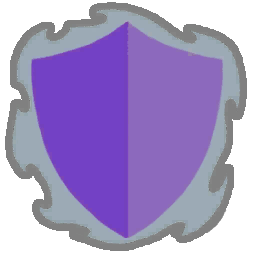
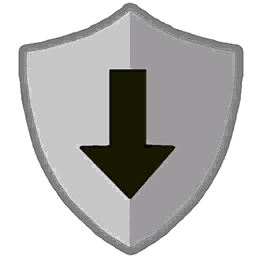
260910: Debug

diff --git a/ElfredaSpire/scripts/Characters/Elfreda/Cards/FlowerSeaArrival.cs b/ElfredaSpire/scripts/Characters/Elfreda/Cards/FlowerSeaArrival.cs
@@ -1,4 +1,4 @@
-// | 花海降临 | FlowerSeaArrival | 技能 | 1 | 对所有敌人施加5/8层[花]。抽2/3张牌。 |
+// | 花海降临 | FlowerSeaArrival | 技能 | 0 | 对所有敌人施加5/8层[花]。抽2/3张牌。 |
 
 using MegaCrit.Sts2.Core.Entities.Cards;
 using MegaCrit.Sts2.Core.GameActions.Multiplayer;
@@ -14,7 +14,7 @@ namespace ElfredaSpire.Characters.Elfreda.Cards;
 [RegisterCard(typeof(ElfredaCardPool))]
 public class FlowerSeaArrival : ModCardTemplate
 {
-    public FlowerSeaArrival() : base(1, CardType.Skill, CardRarity.Ancient, TargetType.AllEnemies, true)
+    public FlowerSeaArrival() : base(0, CardType.Skill, CardRarity.Ancient, TargetType.AllEnemies, true)
     {
     }
 
@@ -33,8 +33,8 @@ public class FlowerSeaArrival : ModCardTemplate
 
     protected override async Task OnPlay(PlayerChoiceContext choiceContext, CardPlay cardPlay)
     {
-        if (cardPlay.Target is null) return;
-        await PowerCmd.Apply<FlowerElfredaPower>(choiceContext, cardPlay.Target, DynamicVars["FlowerElfredaPower"].IntValue, Owner.Creature, cardPlay.Card);
+        if (CombatState is null) return;
+        await PowerCmd.Apply<FlowerElfredaPower>(choiceContext, CombatState.HittableEnemies.ToList(), DynamicVars["FlowerElfredaPower"].IntValue, Owner.Creature, cardPlay.Card);
         await CardPileCmd.Draw(choiceContext, DynamicVars.Cards.IntValue, Owner);
     }
 

diff --git a/ElfredaSpire/scripts/Characters/Elfreda/Cards/StarlightRadiance.cs b/ElfredaSpire/scripts/Characters/Elfreda/Cards/StarlightRadiance.cs
@@ -43,11 +43,12 @@ public class StarlightRadiance : ModCardTemplate
 
     protected override async Task OnPlay(PlayerChoiceContext choiceContext, CardPlay cardPlay)
     {
-        if (cardPlay.Target is null) return;
+        if (CombatState is null) return;
         if (!Owner.Creature.HasPower<GlitterPower>())
             await PowerCmd.Apply<StarElfredaPower>(choiceContext, Owner.Creature, -DynamicVars["StarElfredaPower"].IntValue, Owner.Creature, cardPlay.Card);
-        await PowerCmd.Apply<VulnerablePower>(choiceContext, cardPlay.Target, DynamicVars["VulnerablePower"].IntValue, Owner.Creature, cardPlay.Card);
-        await PowerCmd.Apply<WeakPower>(choiceContext, cardPlay.Target, DynamicVars["WeakPower"].IntValue, Owner.Creature, cardPlay.Card);
+        var targets = CombatState.HittableEnemies.ToList();
+        await PowerCmd.Apply<VulnerablePower>(choiceContext, targets, DynamicVars["VulnerablePower"].IntValue, Owner.Creature, cardPlay.Card);
+        await PowerCmd.Apply<WeakPower>(choiceContext, targets, DynamicVars["WeakPower"].IntValue, Owner.Creature, cardPlay.Card);
     }
 
     protected override void OnUpgrade()

diff --git a/ElfredaSpire/scripts/Characters/Elfreda/Cards/FlowerSeaGuide.cs b/ElfredaSpire/scripts/Characters/Elfreda/Cards/FlowerSeaGuide.cs
@@ -33,9 +33,9 @@ public class FlowerSeaGuide : ModCardTemplate
 
     protected override async Task OnPlay(PlayerChoiceContext choiceContext, CardPlay cardPlay)
     {
-        if (cardPlay.Target is null) return;
+        if (CombatState is null) return;
         await CardPileCmd.Draw(choiceContext, DynamicVars.Cards.IntValue, Owner);
-        await PowerCmd.Apply<FlowerElfredaPower>(choiceContext, cardPlay.Target, DynamicVars["FlowerElfredaPower"].IntValue, Owner.Creature, cardPlay.Card);
+        await PowerCmd.Apply<FlowerElfredaPower>(choiceContext, CombatState.HittableEnemies.ToList(), DynamicVars["FlowerElfredaPower"].IntValue, Owner.Creature, cardPlay.Card);
     }
 
     protected override void OnUpgrade()

diff --git a/ElfredaSpire/scripts/Characters/Elfreda/Cards/StarRain.cs b/ElfredaSpire/scripts/Characters/Elfreda/Cards/StarRain.cs
@@ -34,8 +34,8 @@ public class StarRain : ModCardTemplate
 
     protected override async Task OnPlay(PlayerChoiceContext choiceContext, CardPlay cardPlay)
     {
-        if (cardPlay.Target is null) return;
-        await DamageCmd.Attack(DynamicVars.Damage.BaseValue).FromCard(this).Targeting(cardPlay.Target).Execute(choiceContext);
+        if (CombatState is null) return;
+        await DamageCmd.Attack(DynamicVars.Damage.BaseValue).FromCard(this).TargetingAllOpponents(CombatState).Execute(choiceContext);
         await PowerCmd.Apply<StarElfredaPower>(choiceContext, Owner.Creature, DynamicVars["StarElfredaPower"].IntValue, Owner.Creature, cardPlay.Card);
     }
 

diff --git a/ElfredaSpire/scripts/Characters/Elfreda/Cards/FlowerStorm.cs b/ElfredaSpire/scripts/Characters/Elfreda/Cards/FlowerStorm.cs
@@ -33,8 +33,8 @@ public class FlowerStorm : ModCardTemplate
 
     protected override async Task OnPlay(PlayerChoiceContext choiceContext, CardPlay cardPlay)
     {
-        if (cardPlay.Target is null) return;
-        await PowerCmd.Apply<FlowerElfredaPower>(choiceContext, cardPlay.Target, DynamicVars["FlowerElfredaPower"].IntValue, Owner.Creature, cardPlay.Card);
+        if (CombatState is null) return;
+        await PowerCmd.Apply<FlowerElfredaPower>(choiceContext, CombatState.HittableEnemies.ToList(), DynamicVars["FlowerElfredaPower"].IntValue, Owner.Creature, cardPlay.Card);
     }
 
     protected override void OnUpgrade()

diff --git a/ElfredaSpire/scripts/Characters/Elfreda/Cards/FlowerRain.cs b/ElfredaSpire/scripts/Characters/Elfreda/Cards/FlowerRain.cs
@@ -33,8 +33,8 @@ public class FlowerRain : ModCardTemplate
 
     protected override async Task OnPlay(PlayerChoiceContext choiceContext, CardPlay cardPlay)
     {
-        if (cardPlay.Target is null) return;
-        await PowerCmd.Apply<FlowerElfredaPower>(choiceContext, cardPlay.Target, DynamicVars["FlowerElfredaPower"].IntValue, Owner.Creature, cardPlay.Card);
+        if (CombatState is null) return;
+        await PowerCmd.Apply<FlowerElfredaPower>(choiceContext, CombatState.HittableEnemies.ToList(), DynamicVars["FlowerElfredaPower"].IntValue, Owner.Creature, cardPlay.Card);
     }
 
     protected override void OnUpgrade()

diff --git a/ElfredaSpire/scripts/Characters/Elfreda/Cards/WedgeScatter.cs b/ElfredaSpire/scripts/Characters/Elfreda/Cards/WedgeScatter.cs
@@ -33,8 +33,8 @@ public class WedgeScatter : ModCardTemplate
 
     protected override async Task OnPlay(PlayerChoiceContext choiceContext, CardPlay cardPlay)
     {
-        if (cardPlay.Target is null) return;
-        await PowerCmd.Apply<FlowerWedgePower>(choiceContext, cardPlay.Target, DynamicVars["FlowerWedgePower"].IntValue, Owner.Creature, cardPlay.Card);
+        if (CombatState is null) return;
+        await PowerCmd.Apply<FlowerWedgePower>(choiceContext, CombatState.HittableEnemies.ToList(), DynamicVars["FlowerWedgePower"].IntValue, Owner.Creature, cardPlay.Card);
     }
 
     protected override void OnUpgrade()

diff --git a/ElfredaSpire/scripts/Characters/Elfreda/Cards/EntanglingVines.cs b/ElfredaSpire/scripts/Characters/Elfreda/Cards/EntanglingVines.cs
@@ -36,7 +36,7 @@ public class EntanglingVines : ModCardTemplate
     {
         if (cardPlay.Target is null) return;
         await PowerCmd.Apply<FlowerWedgePower>(choiceContext, cardPlay.Target, DynamicVars["FlowerWedgePower"].IntValue, Owner.Creature, cardPlay.Card);
-        await PowerCmd.Apply<StrengthPower>(choiceContext, Owner.Creature, -DynamicVars["StrengthPower"].IntValue, Owner.Creature, cardPlay.Card);
+        await PowerCmd.Apply<StrengthPower>(choiceContext, cardPlay.Target, -DynamicVars["StrengthPower"].IntValue, Owner.Creature, cardPlay.Card);
     }
 
     protected override void OnUpgrade()

diff --git a/ElfredaSpire/scripts/Characters/Elfreda/Events/ElfredaRestSiteOption.cs b/ElfredaSpire/scripts/Characters/Elfreda/Events/ElfredaRestSiteOption.cs
@@ -9,7 +9,7 @@ namespace ElfredaSpire.Characters.Events;
 public class ElfredaRestSiteOption(Player owner) : ModRestSiteOptionTemplate(owner)
 {
     private const int CountIncrease = 3;
-    private const string IconPath = $"{Entry.ResPath}/images/characters/Elfreda/restsite_icon_Elfreda.png";
+    private const string IconPath = $"{Entry.ResPath}/images/characters/Elfreda/restsite_option_Elfreda.png";
 
     public override string OptionId => "ELFREDA_STAR_AND_FLOWER";
 

diff --git a/ElfredaSpire/scripts/Characters/Elfreda/Cards/StrikeElfreda.cs b/ElfredaSpire/scripts/Characters/Elfreda/Cards/StrikeElfreda.cs
@@ -9,7 +9,7 @@ using MegaCrit.Sts2.Core.ValueProps;
 namespace ElfredaSpire.Characters.Elfreda.Cards;
 
 [RegisterCard(typeof(ElfredaCardPool))]
-[RegisterCharacterStarterCard(typeof(ElfredaCharacter), 4)]
+[RegisterCharacterStarterCard(typeof(ElfredaCharacter), 3)]
 public class StrikeElfreda : ModCardTemplate
 {
     public StrikeElfreda() : base(1, CardType.Attack, CardRarity.Basic, TargetType.AnyEnemy, true)

diff --git a/Drafts/Character.md b/Drafts/Character.md
@@ -117,7 +117,7 @@
 ### 初始
 | 卡牌名 | ID | 类型 | 费用 | 效果 |
 |---|---|---|---|---|
-| 打击 | StrikeElfreda | 攻击4 | 1 | 造成6/9点伤害 |
+| 打击 | StrikeElfreda | 攻击3 | 1 | 造成6/9点伤害 |
 | 防御 | DefendElfreda | 技能4 | 1 | 获得5/7点格挡 |
 | 开花 | Bloom | 技能 | 0 | 施加2/3层[花]。抽1/2张牌。|
 | 星辰之力 | StarForce | 攻击 | 2 | 造成12/18点伤害。获得2/3层[星]。 |
@@ -127,7 +127,7 @@
 ### 先古
 | 卡牌名 | ID | 类型 | 费用 | 效果 |
 |---|---|---|---|---|
-| 花海降临 | FlowerSeaArrival | 技能 | 1 | 对所有敌人施加5/8层[花]。抽2/3张牌。 |
+| 花海降临 | FlowerSeaArrival | 技能 | 0 | 对所有敌人施加5/8层[花]。抽2/3张牌。 |
 | 星陨 | Starfall | 攻击 | 3 | 造成20/27点伤害。获得5/7层[星]。移除目标的所有[花]并施加等量的[花之楔]。 |
 | 永恒之花 | EternalFlower | 能力 | 2 | 每当你施加[花]时，额外施加1/2层[花之楔]。 |
 
